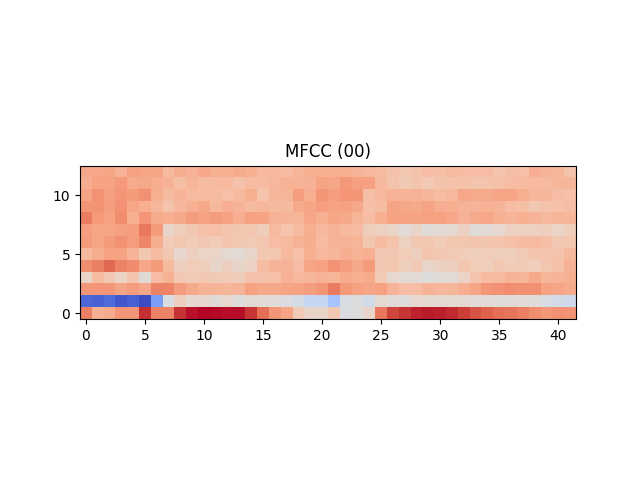
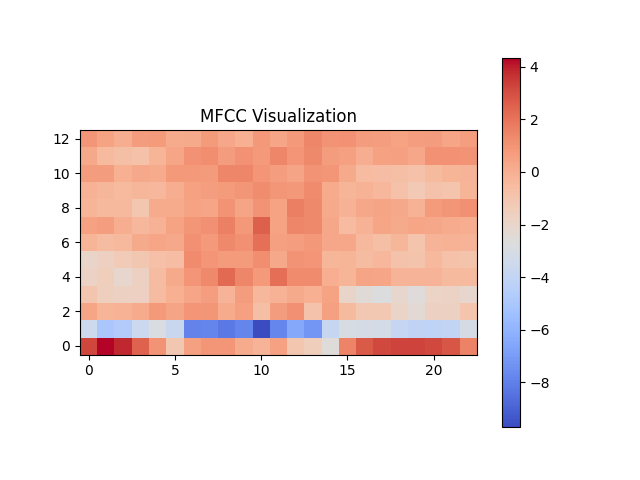
refactored mfcc intermediate plots

Changed region(s): [[0.0625, 0.0938, 0.9062, 0.9062]]

diff --git a/src/d02_intermediate/data_plot.py b/src/d02_intermediate/data_plot.py
@@ -4,33 +4,31 @@ import numpy as np # matrix math
 import os # interation with the OS
 from sklearn.utils import shuffle # shuffling of data
 from matplotlib import cm
+from matplotlib import colors
+from matplotlib import colorbar
 import matplotlib.pyplot as plt # to view graphs
+
+def plot_mfcc_colorbar(df, filename):
+    # Plot MFCC Coefficients
+    fig, ax = plt.subplots()
+    mfcc_data= np.swapaxes(df_01, 0 ,1)
+    cmap = cm.coolwarm
+    norm = colors.Normalize(df.to_numpy().min(), df.to_numpy().max())
+    fig.colorbar(cm.ScalarMappable(norm=norm, cmap=cm.coolwarm), ax=ax)
+    ax.imshow(mfcc_data, interpolation='nearest', cmap=cmap, origin='lower')
+    ax.set_title('MFCC Visualization')
+    plt.savefig(filename)
+    plt.ylabel(f"MFCC Coefficient")
+    plt.xlabel(f"Quefrency (ms)")
+    plt.show()
 
 # Relative filepath names
 INTERMEDIATE_PATH = 'data/02_intermediate/single_person/test_00_female_'
 file_00 = f"{INTERMEDIATE_PATH}00.txt"
 file_01 = f"{INTERMEDIATE_PATH}01.txt"
 
-print(f"file_00: {file_00}")
 df_00 = pd.read_csv(file_00, delimiter=' ', header=None)
-
-
-
-# Plot MFCC Coefficients
-fig, ax = plt.subplots()
-mfcc_data= np.swapaxes(df_00, 0 ,1)
-cax = ax.imshow(mfcc_data, interpolation='nearest', cmap=cm.coolwarm, origin='lower')
-ax.set_title('MFCC (00)')
-plt.savefig(f"{INTERMEDIATE_PATH}00.png")
-plt.show()
-
-
-print(f"file_01: {file_01}")
 df_01 = pd.read_csv(file_01, delimiter=' ', header=None)
 
-fig, ax = plt.subplots()
-mfcc_data= np.swapaxes(df_01, 0 ,1)
-cax = ax.imshow(mfcc_data, interpolation='nearest', cmap=cm.coolwarm, origin='lower')
-ax.set_title('MFCC (01)')
-plt.savefig(f"{INTERMEDIATE_PATH}01.png")
-plt.show()
+plot_mfcc_colorbar(df=df_00, filename=f"{INTERMEDIATE_PATH}00.png")
+plot_mfcc_colorbar(df=df_01, filename=f"{INTERMEDIATE_PATH}01.png")
